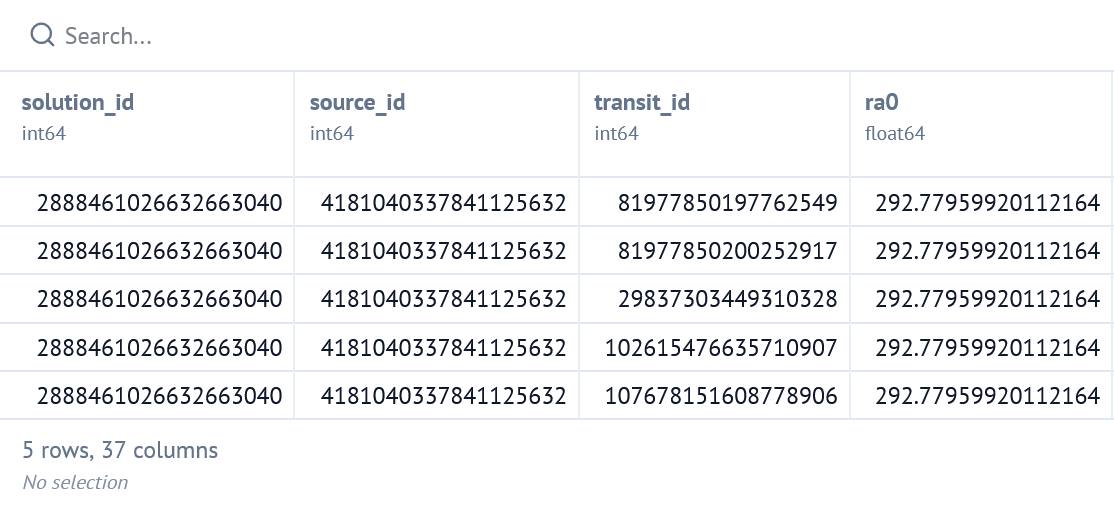
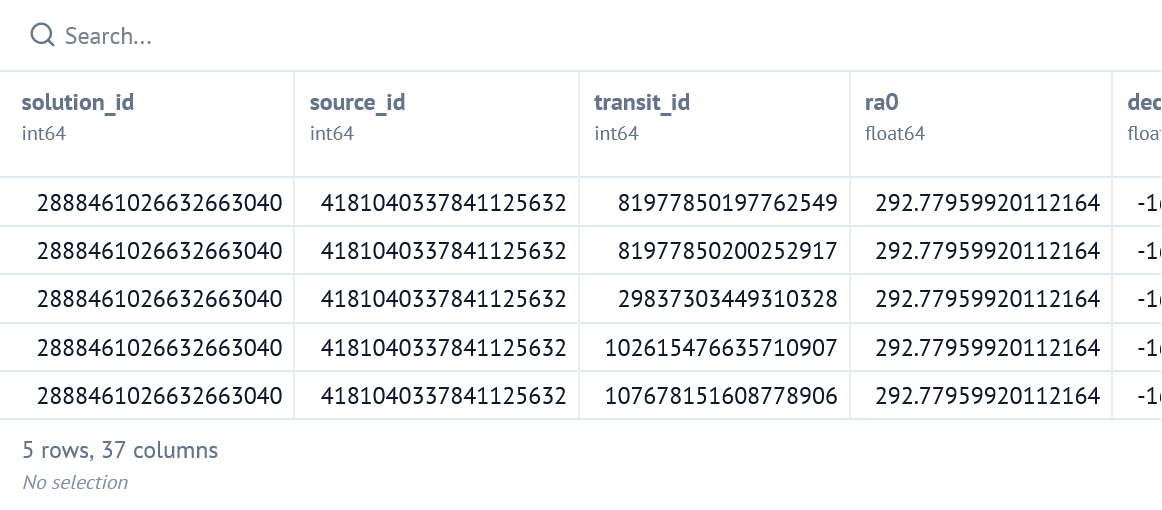
add/update Gaia-4b example

diff --git a/docs/docs/examples/GaiaDR4.md b/docs/docs/examples/GaiaDR4.md
@@ -1,10 +1,10 @@
-# Gaia DR4
+# Gaia-4b from DR4 data
 
 ### Introduction
 
 The anticipation is palpable in observatories around the world as ESA prepares the 4th Data Release (DR4) of the Gaia mission. As a teaser, the Gaia DR4 epoch astrometry for 12 sources was pre-released in June 2026. Here we use the pre-release data for Gaia-4 to demonstrate how to fit Gaia epoch astrometry with **kima**.
 
-This example uses the recently developed [GAIAmodel](/docs/API/kima/#kima.GAIAmodel), which is described in detail in Baycroft, Faria & Delisle (2026)[^1].
+This example uses the recently developed [GAIAmodel](/docs/API/kima/#kima.GAIAmodel), which is described in detail in the recent paper Baycroft, Faria & Delisle (2026)[^1].
 
 !!! abstract "Checkout the paper"
 
@@ -26,7 +26,7 @@ This example uses the recently developed [GAIAmodel](/docs/API/kima/#kima.GAIAmo
     [Octofitter documentation](https://sefffal.github.io/Octofitter.jl/dev/gaia-dr4-prerelease/)!
 
 First things first:
-Besides **kima**, this tutorial needs `numpy`, `scipy`, `pandas`, `astropy` and `requests`.
+besides **kima**, this tutorial needs a few other standard packages:
 
 
 ```python
@@ -102,7 +102,7 @@ DR4). At the same time, several columns are actually arrays, containing the valu
 !!! note "SM and AF observations"
 
     Of the 10 entries per transit, the first one comes from the Sky Mapper
-    (SM) and is not an astrometric measurement for our purposes. Only the
+    (SM) and is not a calibrated astrometric measurement for our purposes. Only the
     other 9, from the Astrometric Field CCDs (AF1–AF9), should be used. The function below discards the SM value.
 
 
@@ -208,6 +208,15 @@ We're still not done though: we will also bin the individual CCD observations to
 
 Following the Octofitter tutorial and recommendations from the Gaia team, we will calculate the **median along-scan position per-transit**, and **estimate its uncertainty by bootstrap-resampling** the observations within the transit. To avoid very small uncertainties, we further limit them to the IPD uncertainty divided by the square root of the number of CCD observations.
 
+!!! note "What is IPD?"
+
+    IPD stands for *Image Parameter Determination*, the step of the Gaia
+    data processing in which the image of the star recorded on each CCD
+    is fitted with a model of the instrument's line-spread function. This
+    fit provides the along-scan centroid position (the measurement we are
+    using) and its formal uncertainty, `ipd_error_al`, for every individual
+    CCD observation. See Rowell et al. 2026[^2] for more details.
+
 
 ```python
 def bin_by_transit(file=None, df=None, nboot=100, seed=42):
@@ -309,7 +318,7 @@ data.plot()
 
 
     
-![png](GaiaDR4_files/GaiaDR4_24_0.png)
+![png](GaiaDR4_files/GaiaDR4_25_0.png)
     
 
 
@@ -328,13 +337,13 @@ model = kima.GAIAmodel(fix=True, npmax=1, data=data)
 
 
 ```python
-kima.run(model, steps=20_000, num_threads=2)
+kima.run(model, steps=30_000, num_threads=4)
 ```
 
 !!! tip
 
     Running this model for 20 000 steps with the default settings
-    should take only a few seconds, but note (below) we don't get
+    should take about one minute, but note (below) we don't get
     a very large effective sample size. Those few posterior samples
     should nevertheless be enough for a first look at the results.
 
@@ -348,11 +357,11 @@ Let's load the results and make a first plot of the posterior orbits
 res = kima.load_results(model)
 ```
 
-    Loading files took 0.30 seconds
-    log(Z) = 101.86
-    Information = 59.35 nats
-    BMD = 22.71
-    Effective sample size = 1419.9
+    Loading files took 0.32 seconds
+    log(Z) = 102.76
+    Information = 56.68 nats
+    BMD = 26.14
+    Effective sample size = 3986.9
     
 
 
@@ -369,7 +378,7 @@ res.plot_random_samples()[0]
 
 
     
-![png](GaiaDR4_files/GaiaDR4_33_1.png)
+![png](GaiaDR4_files/GaiaDR4_34_1.png)
     
 
 
@@ -389,7 +398,7 @@ res.plot_posterior_periods(show_prior=True)
 
 
     
-![png](GaiaDR4_files/GaiaDR4_36_0.png)
+![png](GaiaDR4_files/GaiaDR4_37_0.png)
     
 
 
@@ -402,7 +411,7 @@ res.hist_astrometric_solution()[0]
 
 
     
-![png](GaiaDR4_files/GaiaDR4_38_0.png)
+![png](GaiaDR4_files/GaiaDR4_39_0.png)
     
 
 
@@ -462,7 +471,7 @@ Running the model again with the new priors will typically improve the sampling,
 
 
 ```python
-kima.run(model, steps=20_000, progress_bar=True)
+kima.run(model, steps=30_000, num_threads=4)
 ```
 
 
@@ -470,11 +479,11 @@ kima.run(model, steps=20_000, progress_bar=True)
 new_res = kima.load_results(model)
 ```
 
-    Loading files took 0.40 seconds
-    log(Z) = 123.65
-    Information = 40.20 nats
-    BMD = 41.06
-    Effective sample size = 4167.6
+    Loading files took 0.31 seconds
+    log(Z) = 129.57
+    Information = 38.59 nats
+    BMD = 17.62
+    Effective sample size = 8293.1
     
 
 
@@ -484,7 +493,7 @@ new_res.hist_astrometric_solution(show_prior=True)[0]
 
 
     
-![png](GaiaDR4_files/GaiaDR4_50_0.png)
+![png](GaiaDR4_files/GaiaDR4_51_0.png)
     
 
 
@@ -523,32 +532,7 @@ percentile68_ranges(final_res.posteriors.P)
 
 
 
-or we can simply print the results directly
-
-
-```python
-final_res.print_results()
-```
-
-    logL max: 173.86
-    logZ: 108.87
-    
-        parameter : median ± std           Ͱ                         distribution                         
-        jitter    : 0.0241 ± 0.0049        Ͱ     0.0008│▁ ▁▁▁▁▁▁▁▁▁▁▂▂▂▄▄▅▆▇▇▇▇▆▅▄▃▃▂▁▁▁▁▁▁▁ ▁▁│0.0444    
-        dd        : 0.160 ± 0.035          Ͱ      0.062│▁▁▁▁▁▁▁▁▁▁▃▂▄▃▄▅▇▄▅▄▂▃▂▃▃▃▂▃▂▁▁▁▁▂▁▁ ▁▁│0.272     
-        da        : -0.184 ± 0.024         Ͱ     -0.260│▁▁ ▂▁▁▁▁▂▄▄▂▂▃▅▃▆▇▇▇▆▆▆▆▃▃▂▂▂▁▁▁▂▁▁▁  ▁│-0.102    
-        mua       : -75.5324 ± 0.0054      Ͱ   -75.5532│▁▁ ▁▁▁▁▁▂▁▁▂▃▂▃▃▃▄▇▃▅▄▄▄▄▃▂▃▂▂▁▁▁▁▁ ▁▁▁│-75.5124  
-        mud       : 17.9665 ± 0.0053       Ͱ    17.9516│▁▁▁▁▁▂▂▂▂▁▃▃▃▃▂▂▃▄▃▄▇▃▃▂▃▂▃▂▁▁▁▁▁▁▁▁▁▁▁│17.9829   
-        plx       : 13.621 ± 0.011         Ͱ     13.587│▁▁▁▁▁▁▁▃▁▂▁▂▂▃▅▅▅▅▆▇▄▆▄▂▃▆▃▆▂▃▃▂▁▁▁▁▁▁▁│13.655    
-        - planets
-        1: P      : 577.2 ± 4.4            Ͱ      561.6│▁▁ ▁▁▁▁▁▁▁▃▄▃▃▆▆▃▃▆▃▆▅▇▄▃▂▂▂▁▁▁ ▁▁ ▁▁ ▁│593.9     
-        1: a      : 0.256 ± 0.014          Ͱ      0.218│▁▁▁▁▁▁▂▄▁▄▅▅▂▄▄▄▅▄▇▃▇▆▄▆▄▆▄▃▄▄▅▂▁▂▁  ▁▁│0.292     
-        1: M0     : 5.79 ± 0.85            Ͱ       0.00│▁▁ ▁                            ▁▁▃▇▆▂▂│6.28      
-        1: e      : 0.402 ± 0.092          Ͱ      0.056│▁   ▁▁▁▁▁▁▁▁▁▁▂▃▂▂▇▃▄▄▅▆▃▅▃▃▂▃▄▂▁▁▁▂▁▁▂│0.641     
-        1: w      : 3.6 ± 1.0              Ͱ        0.1│▁ ▁▂▁▁▁▁          ▁▁▁▁▅▅▇▅▂▁          ▁│5.8       
-        1: W      : 3.1 ± 1.0              Ͱ        0.0│▂▁▁                                ▁▁▄▇│3.1       
-        --
-    
+or we could print the results directly with the `print_results()` function.
 
 The table below summarises all the results, after the necessary unit conversions
 
@@ -572,7 +556,7 @@ table = mo.md(f"""
 | $\omega$ [deg] | $185 \pm 16$      | $180.3^{{+5.5}}_{{-4.8}}$     | —   | {p68(np.rad2deg(final_res.posteriors.w))} |
 | $\Omega$ [deg] | $159.4 \pm 5$     | $158.6 \pm 5.1$               | —   | {p68(np.rad2deg(final_res.posteriors.W))} |
 | $a_0$ [mas]    | $0.312 \pm 0.040$ | $0.279^{{+0.016}}_{{-0.014}}$ | —   | {p68(final_res.posteriors.a)} |
-| $m_\mathrm{{p}}$ [M$_\mathrm{{Jup}}$] | $13.2 \pm 1.9$ | $11.8^{{+0.73}}_{{-0.66}}$ | $\geq 10.30 \pm 0.45$ | {Mp} |
+| $m_\mathrm{{p}}$ [M$_\mathrm{{Jup}}$] | $13.2 \pm 1.9$ | $11.8^{{+0.73}}_{{-0.66}}$ | $\geq 10.30 \pm 0.45$ | ${Mp}$ |
 """)
 table
 ```
@@ -645,7 +629,7 @@ table
 <td>$13.2 \pm 1.9$</td>
 <td>$11.8^{+0.73}_{-0.66}$</td>
 <td>$\geq 10.30 \pm 0.45$</td>
-<td>10.79</td>
+<td>$10.79$</td>
 </tr>
 </tbody>
 </table></span>
@@ -684,13 +668,19 @@ import zipfile
       [arXiv](https://arxiv.org/abs/2606.24132),
       [DOI](https://doi.org/10.1051/0004-6361/202661563)
 
-[^2]: Stefánsson, G., Mahadevan, S., Winn, J.N., et al.
+[^2]: Rowell et al.
+      *Gaia Data Release 4: Modelling of drift-scan-related effects in Gaia's point spread function*
+      A&A, 708, A174 (2026)
+      [arXiv](https://arxiv.org/abs/2602.20906)
+      [DOI](https://doi.org/10.1051/0004-6361/202558618)
+
+[^3]: Stefánsson, G. et al.
       *Gaia-4b and 5b: Radial Velocity Confirmation of Gaia Astrometric Orbital Solutions Reveal a Massive Planet and a Brown Dwarf Orbiting Low-mass Stars*
       AJ, 169, 107 (2025)
       [arXiv](https://arxiv.org/abs/2410.05654),
       [DOI](https://doi.org/10.3847/1538-3881/ada9e1)
 
-[^3]: Barbato, D., Pinamonti, M., Sozzetti, A., et al.
+[^4]: Barbato, D. et al.
       *The GAPS programme at TNG LXXV. Validating and confirming Gaia substellar astrometric candidates with HARPS-N*
       A&A 712, A213 (2026)
       [arXiv](https://arxiv.org/abs/2606.29001),
